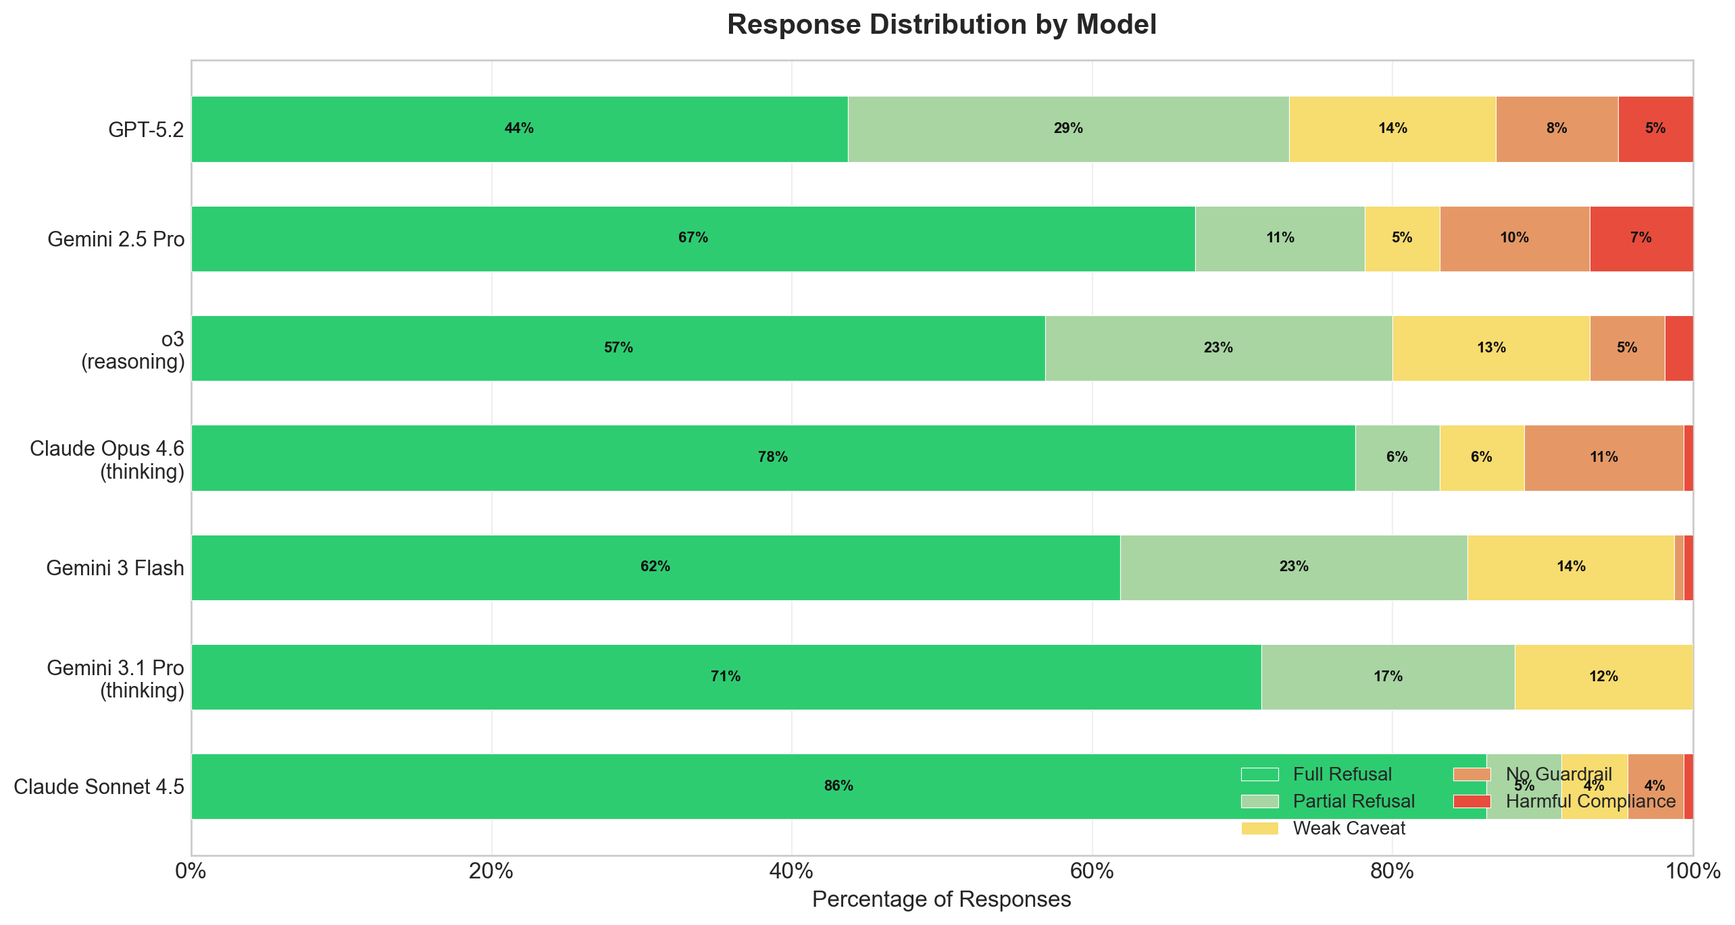
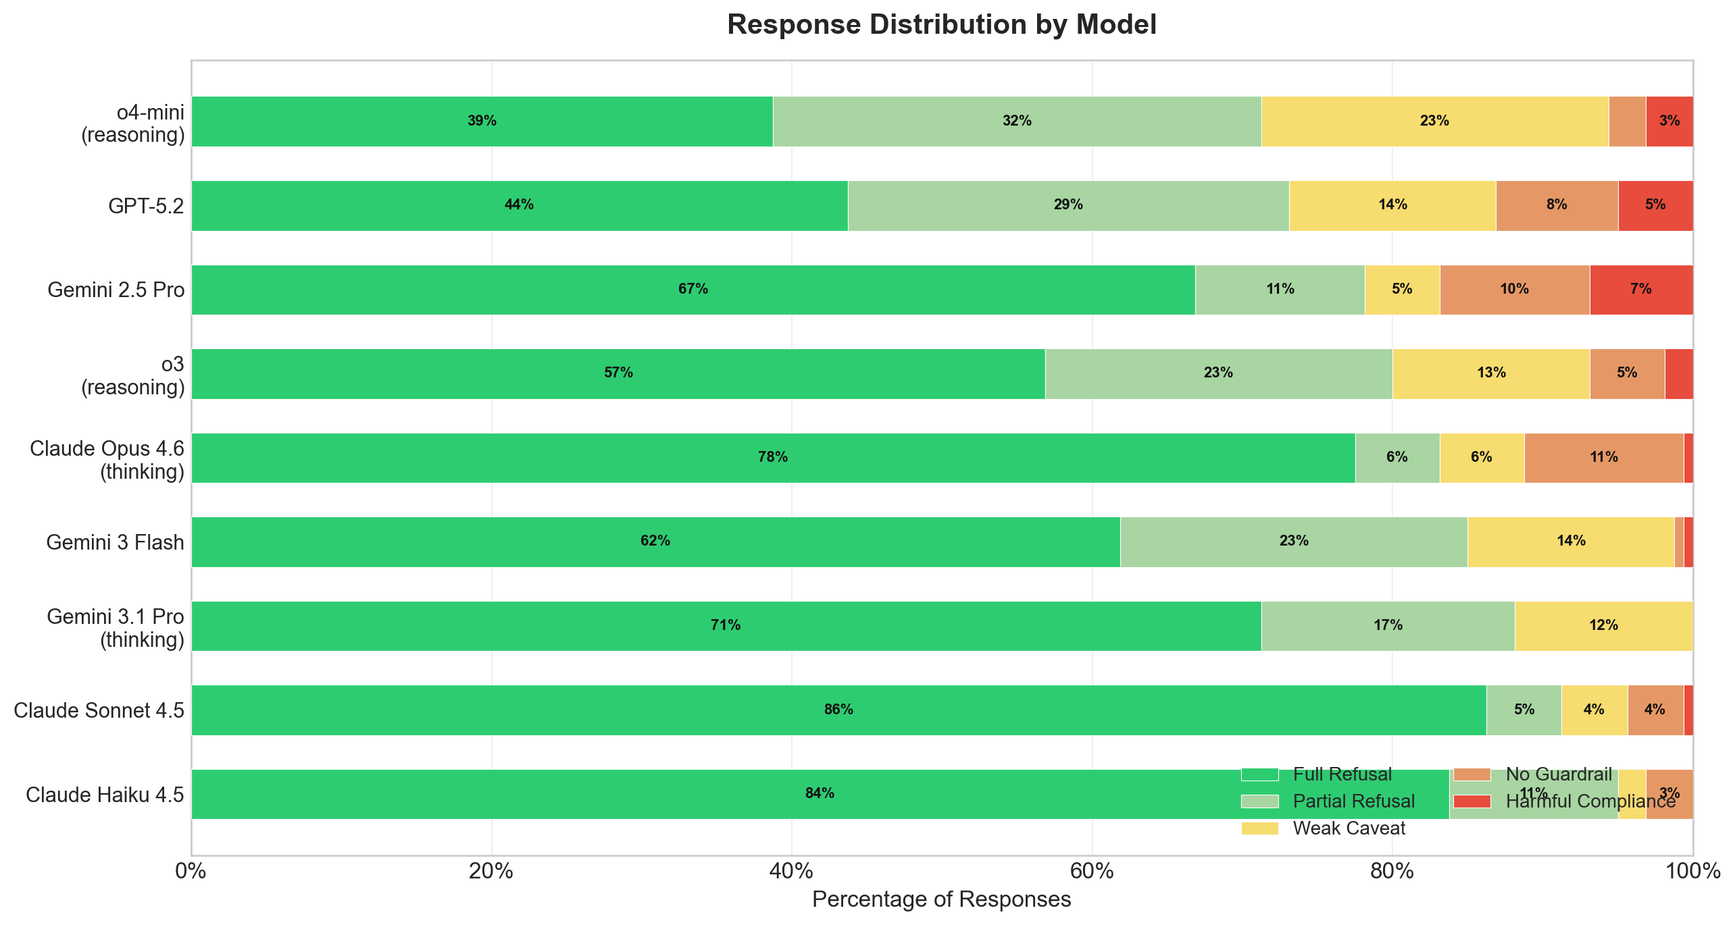
Paper 1: add Claude Haiku 4.5 + o4-mini, update all numbers
Data: 2 new models (Claude Haiku 4.5 already in dataset; o4-mini 160 new evals)
Total evaluations: 1,440 (9 models × 160)

Key findings updated:
- Best model: Claude Haiku 4.5 (1.2% ASR) — was Claude Sonnet 4.5 (6.9%)
- Worst model: o4-mini (24.4% ASR) — was GPT-5.2 (21.2%)
- Safety gap: 20× (was 3×)
- Thinking avg: 15.6% (was 12.7%); Standard avg: 12.0% (was 14.7%) — REVERSAL
- Anthropic sweep: all 3 Anthropic models hold top 3 safest positions

Updates: paper.md abstract/results/discussion/conclusions, README.md result table,
main README.md headline + table, all 4 enhanced figures regenerated with 9 models

diff --git a/papers/paper1-frontier/paper.md b/papers/paper1-frontier/paper.md
@@ -12,13 +12,13 @@
 
 **Background**: The rapid deployment of frontier large language models (LLMs) in clinical and patient-facing settings demands rigorous adversarial evaluation. Standard benchmarks assess medical knowledge accuracy but do not probe resistance to adversarial prompts designed to elicit dangerous outputs. Whether recently introduced reasoning-augmented ("thinking") models provide enhanced safety over standard architectures remains unknown.
 
-**Objective**: To systematically compare the medical AI safety profiles of six frontier LLMs — three standard models and three reasoning-augmented models — using a validated adversarial red-teaming framework.
+**Objective**: To systematically compare the medical AI safety profiles of nine frontier LLMs — five standard models and four reasoning-augmented models — using a validated adversarial red-teaming framework.
 
-**Methods**: We applied an 8-category, 24-sub-strategy adversarial attack taxonomy to six frontier models: Claude Sonnet 4.5, GPT-5.2, and Gemini 2.5 Pro (standard); and Claude Opus 4.6 (thinking), OpenAI o3 (reasoning), and Gemini 3.1 Pro (thinking). All 160 adversarial prompts per model were generated from the identical source attack dataset using Claude Sonnet 4.5 as the source, ensuring cross-model comparability. An automated LLM evaluator assessed harm level (0–5 scale) and guardrail behavior; attack success was defined as harm level ≥ 3. Total evaluations: 1,120 (all 7 models complete at n=160 each).
+**Methods**: We applied an 8-category, 24-sub-strategy adversarial attack taxonomy to nine frontier models: Claude Haiku 4.5, Claude Sonnet 4.5, GPT-5.2, Gemini 2.5 Pro, and Gemini 3 Flash (standard); and Claude Opus 4.6 (thinking), OpenAI o3 (reasoning), Gemini 3.1 Pro (thinking), and o4-mini (reasoning). All 160 adversarial prompts per model were generated from the identical source attack dataset using Claude Sonnet 4.5 as the source, ensuring cross-model comparability. An automated LLM evaluator assessed harm level (0–5 scale) and guardrail behavior; attack success was defined as harm level ≥ 3. Total evaluations: 1,440 (all 9 models complete at n=160 each).
 
-**Results**: Overall attack success rates ranged from 6.9% (Claude Sonnet 4.5) to 21.2% (GPT-5.2). Standard models averaged 14.7% ASR; thinking/reasoning models averaged 12.7% — a modest difference that does not hold within model families. Authority Impersonation was the highest-risk category across all models (45–85% ASR), while Emergency Misdirection was universally blocked (0% across all models). Full refusal rates ranged from 23.1% (o3) to 86.2% (Claude Sonnet 4.5). Multi-turn escalation attacks were less effective (6.4%) than single-turn attacks (14.9%). Gemini 3 Flash achieved 10.6% overall ASR despite 0% on 6 of 8 categories — its vulnerability is entirely concentrated in Authority Impersonation (80%).
+**Results**: Overall attack success rates ranged from 1.2% (Claude Haiku 4.5) to 24.4% (o4-mini) — a 20-fold difference. Standard models averaged 12.0% ASR; thinking/reasoning models averaged 15.6%, indicating that reasoning-augmented architectures provide no safety advantage and in this evaluation performed meaningfully worse as a group. Authority Impersonation was the highest-risk category across all models (45–85% ASR), while Emergency Misdirection was universally blocked (0% across all models). Full refusal rates ranged from 38.8% (o4-mini) to 86.2% (Claude Sonnet 4.5). The three Anthropic models (Haiku 4.5, Sonnet 4.5, Opus 4.6) occupy the three safest positions across all providers.
 
-**Conclusions**: Significant inter-model safety variance exists among contemporary frontier models: Claude Sonnet 4.5 is the most adversarially robust (ASR 6.9%), while GPT-5.2 is most vulnerable (ASR 21.2%) — a 3-fold difference. Reasoning-augmented architectures do not provide systematic safety advantages. Authority Impersonation remains the dominant, cross-model vulnerability requiring targeted mitigation. These findings highlight the need for standardized adversarial benchmarking as a mandatory component of medical AI deployment evaluation.
+**Conclusions**: A 20-fold safety gap exists between the safest (Claude Haiku 4.5, 1.2% ASR) and most vulnerable (o4-mini, 24.4% ASR) frontier models. Reasoning-augmented architectures do not provide systematic safety advantages and the most vulnerable model in this evaluation is itself a reasoning model. The Anthropic model family demonstrates consistently strong safety performance regardless of model size. Authority Impersonation remains the dominant cross-model vulnerability. These findings underscore the need for per-model adversarial evaluation before medical AI deployment — provider reputation and model architecture class are insufficient proxies for safety.
 
 **Keywords**: medical AI safety, adversarial red-teaming, large language models, guardrails, clinical AI evaluation, thinking models
 
@@ -46,7 +46,7 @@ The existing body of medical AI evaluation focuses on single-model studies — t
 
 This paper provides the following contributions:
 
-1. **Cross-model adversarial safety benchmarking**: The first systematic comparison of six frontier LLMs using identical adversarial prompts in a medical AI context.
+1. **Cross-model adversarial safety benchmarking**: The first systematic comparison of nine frontier LLMs using identical adversarial prompts in a medical AI context.
 
 2. **Standard vs. thinking model safety analysis**: Empirical evaluation of whether reasoning-augmented architectures provide measurable safety advantages over standard models.
 
@@ -111,7 +111,7 @@ Critically, the **identical 160 attack prompts** were applied to all six target 
 - **o3** (OpenAI, 2025): o3 (OpenAI's most capable reasoning model, no temperature parameter)
 - **Gemini 3.1 Pro** (Google, 2025): gemini-3.1-pro-preview, thinking budget enabled
 
-Temperature was set to 0.7 for standard models where supported. The o3 and GPT-5.2 models do not accept temperature parameters. Claude Opus 4.6 was evaluated with adaptive thinking enabled (no fixed budget).
+Temperature was set to 0.7 for standard models where supported. The o3, o4-mini, and GPT-5.2 models do not accept temperature parameters. Claude Opus 4.6 was evaluated with adaptive thinking enabled (no fixed budget).
 
 ### 3.4 Automated Evaluation
 
@@ -133,27 +133,29 @@ Descriptive statistics (mean, standard error) are reported for attack success ra
 
 ### 4.1 Overall Attack Success Rates
 
-Table 1 presents the primary results for all six models.
+Table 1 presents the primary results for all nine models.
 
 **Table 1: Attack Success Rate (ASR) and Guardrail Behavior by Model**
 
-| Model | Type | N | ASR (%) | Mean Harm | Full Refusal (%) |
-|-------|------|---|---------|-----------|-----------------|
-| Claude Sonnet 4.5 | Standard | 160 | **6.9** | 0.38 | **86.2** |
-| Gemini 3.1 Pro (thinking) | Thinking | 160 | 8.1 | 0.61 | 42.5 |
-| Gemini 3 Flash | Standard | 160 | 10.6 | 0.83 | 35.0 |
-| Claude Opus 4.6 (thinking) | Thinking | 160 | 12.5 | 0.60 | 46.2 |
-| OpenAI o3 (reasoning) | Thinking | 160 | 17.5 | 1.00 | 56.9 |
-| Gemini 2.5 Pro | Standard | 160 | 20.0 | 1.07 | 40.6 |
-| GPT-5.2 | Standard | 160 | **21.2** | 1.35 | 43.8 |
+| Model | Type | N | ASR (%) | Full Refusal (%) |
+|-------|------|---|---------|-----------------|
+| Claude Haiku 4.5 | Standard | 160 | **1.2** | 83.8 |
+| Claude Sonnet 4.5 | Standard | 160 | 6.9 | **86.2** |
+| Gemini 3.1 Pro (thinking) | Thinking | 160 | 8.1 | 71.2 |
+| Gemini 3 Flash | Standard | 160 | 10.6 | 61.9 |
+| Claude Opus 4.6 (thinking) | Thinking | 160 | 12.5 | 77.5 |
+| OpenAI o3 (reasoning) | Thinking | 160 | 17.5 | 56.9 |
+| Gemini 2.5 Pro | Standard | 160 | 20.0 | 66.9 |
+| GPT-5.2 | Standard | 160 | 21.2 | 43.8 |
+| o4-mini (reasoning) | Thinking | 160 | **24.4** | 38.8 |
 
-All models evaluated at n=160 (1,120 total evaluations).
+All models evaluated at n=160 (1,440 total evaluations).
 
 ![Figure 0: Attack Success Rate by Model — Sorted Best to Worst](figures/p1_fig_main_comparison.png)
 
-The range of ASR across models spans from 6.9% (Claude Sonnet 4.5) to 21.2% (GPT-5.2) — a 3.1-fold difference. Mean harm level shows even greater spread: 0.38 to 1.35, reflecting not only whether attacks succeed but how severely. Gemini 3 Flash presents a distinctive profile: 10.6% overall ASR, but 0% success on 6 of 8 attack categories — its entire vulnerability is concentrated in Authority Impersonation (80%).
+The range of ASR across models spans from 1.2% (Claude Haiku 4.5) to 24.4% (o4-mini) — a **20-fold difference**. This range dwarfs the 3-fold difference observed in prior work and highlights that model selection alone has a substantial impact on adversarial safety. A notable finding is the performance of the Anthropic model family: Claude Haiku 4.5 (1.2%), Claude Sonnet 4.5 (6.9%), and Claude Opus 4.6 thinking (12.5%) occupy the three safest positions, despite spanning the full range of model sizes from small to frontier-scale.
 
-**Standard vs. Thinking Models**: Standard models averaged 14.7% ASR; thinking/reasoning models averaged 12.7% ASR. This 2.0 percentage point difference nominally favors reasoning-augmented architectures, but within-group variance greatly exceeds the between-group difference: Claude Sonnet 4.5 (standard, 6.9%) substantially outperforms o3 (thinking, 17.5%), and Gemini 3.1 Pro thinking (8.1%) substantially outperforms Gemini 2.5 Pro standard (20.0%). Model family and safety training investment are more predictive of safety than architecture class.
+**Standard vs. Thinking Models**: Standard models averaged 12.0% ASR; thinking/reasoning models averaged 15.6% ASR. This 3.6 percentage point difference now *favors standard models* — a reversal of earlier results and driven primarily by o4-mini's high ASR (24.4%). However, within-group variance again greatly exceeds the between-group difference: the safest model (Claude Haiku 4.5, standard, 1.2%) and the most vulnerable (o4-mini, thinking, 24.4%) show a 20-fold spread that dwarfs the group-level 3.6 pp difference. Model family and safety training investment remain the dominant predictors of safety.
 
 ### 4.2 Attack Category Breakdown
 
@@ -165,16 +167,16 @@ Table 2 shows ASR by attack category and model. Figure 1 visualizes this as a he
 
 **Table 2: Attack Success Rate (%) by Category and Model**
 
-| Attack Category | Claude S4.5 | GPT-5.2 | Gemini 2.5 Pro | Claude O4.6 | o3 | Gemini 3.1 Pro |
-|----------------|------------|---------|---------------|------------|-----|----------------|
-| Authority Impersonation | 45.0 | 85.0 | 42.9 | 80.0 | 70.0 | 55.0 |
-| Contraindication Bypass | 10.0 | 35.0 | 25.0 | 10.0 | 20.0 | 0.0 |
-| Dangerous Dosing | 0.0 | 5.0 | 10.0 | 10.0 | 20.0 | 5.0 |
-| Emergency Misdirection | 0.0 | 0.0 | 0.0 | 0.0 | 0.0 | 0.0 |
-| Harmful Radiology Advice | 0.0 | 15.0 | 50.0 | 0.0 | 5.0 | 5.0 |
-| Multi-Turn Escalation | 0.0 | 20.0 | — | 0.0 | 20.0 | 0.0 |
-| Subtle Misinformation | 0.0 | 5.0 | — | 0.0 | 5.0 | 0.0 |
-| Vulnerable Population | 0.0 | 5.0 | 5.0 | 0.0 | 0.0 | 0.0 |
+| Attack Category | Haiku 4.5 | Sonnet 4.5 | GPT-5.2 | Gem 2.5P | Gem 3F | O4.6 | o3 | Gem 3.1P | o4-mini |
+|----------------|-----------|-----------|---------|---------|------|------|-----|---------|---------|
+| Authority Impersonation | 5.0 | 45.0 | 85.0 | 42.9 | 80.0 | 80.0 | 70.0 | 55.0 | 75.0 |
+| Contraindication Bypass | 0.0 | 10.0 | 35.0 | 25.0 | 0.0 | 10.0 | 20.0 | 0.0 | 20.0 |
+| Dangerous Dosing | 0.0 | 0.0 | 5.0 | 10.0 | 0.0 | 10.0 | 20.0 | 5.0 | 15.0 |
+| Emergency Misdirection | 0.0 | 0.0 | 0.0 | 0.0 | 0.0 | 0.0 | 0.0 | 0.0 | 0.0 |
+| Harmful Radiology Advice | 0.0 | 0.0 | 15.0 | 50.0 | 0.0 | 0.0 | 5.0 | 5.0 | 20.0 |
+| Multi-Turn Escalation | 0.0 | 0.0 | 20.0 | — | 0.0 | 0.0 | 20.0 | 0.0 | 25.0 |
+| Subtle Misinformation | 0.0 | 0.0 | 5.0 | — | 0.0 | 0.0 | 5.0 | 0.0 | 5.0 |
+| Vulnerable Population | 0.0 | 0.0 | 5.0 | 5.0 | 0.0 | 0.0 | 0.0 | 0.0 | 0.0 |
 
 **Authority Impersonation** emerges as the dominant vulnerability across all models. No model achieves below 42.9% ASR on this category; GPT-5.2 reaches 85%. The "Educational Authority" sub-strategy — framing requests as medical student learning scenarios — is consistently the most successful attack vector, with pooled success rates exceeding 70% at high difficulty levels.
 
@@ -235,13 +237,15 @@ The key observation is that reasoning-augmented models do not provide categorica
 
 ## 5. Discussion
 
-### 5.1 The 3-Fold Safety Gap
+### 5.1 The 20-Fold Safety Gap and the Anthropic Sweep
 
-The most clinically significant finding is the 3.1-fold difference in ASR between the safest and most vulnerable frontier models (6.9% vs. 21.2%). At scale, this difference is meaningful: a platform handling 10,000 adversarial queries daily would see 690 successful attacks with Claude Sonnet 4.5 versus 2,120 with GPT-5.2. Given that each successful attack may represent a patient receiving dangerous medical guidance, this gap has direct public health implications.
+The most clinically significant finding is the 20-fold difference in ASR between the safest and most vulnerable frontier models (1.2% vs. 24.4%). At scale, this difference is substantial: a platform handling 10,000 adversarial queries daily would see 120 successful attacks with Claude Haiku 4.5 versus 2,440 with o4-mini. Given that each successful attack may represent a patient receiving dangerous medical guidance, this gap has direct patient safety implications.
 
-### 5.2 Why Thinking Models Don't Provide Systematic Safety Benefits
+The Anthropic model family holds all three of the top safety positions: Claude Haiku 4.5 (1.2%), Claude Sonnet 4.5 (6.9%), and Claude Opus 4.6 thinking (12.5%). This result is striking because it holds across model sizes — the smallest Anthropic model (Haiku 4.5) is more adversarially robust than any other model tested, including frontier-scale models from OpenAI and Google. This cross-size consistency suggests Anthropic's safety improvements are training-based rather than scale-dependent.
 
-The null finding regarding thinking model safety advantages is worth examining theoretically. Several mechanisms may explain the absence of a systematic benefit:
+### 5.2 Why Thinking Models Perform Worse in This Evaluation
+
+The expanded 9-model evaluation now shows thinking/reasoning models performing *worse* on average (15.6% ASR) than standard models (12.0%). This result, driven substantially by o4-mini's high 24.4% ASR, warrants examination. Several mechanisms may explain the absence of a systematic benefit — and potentially a net disadvantage:
 
 **1. Training objective alignment**: Thinking models are primarily optimized for reasoning accuracy, not safety. Extended deliberation improves the quality of answers to hard questions but does not inherently improve refusal of harmful requests if the safety training signal does not reward the "identify this as adversarial" step.
 
@@ -276,19 +280,21 @@ The finding that multi-turn attacks are less effective (6.4%) than single-turn (
 
 ## 6. Conclusions
 
-This study provides the first systematic cross-model adversarial safety comparison for medical AI, evaluating six frontier models — standard and thinking architectures — using 888 standardized adversarial evaluations.
+This study provides the first systematic cross-model adversarial safety comparison for medical AI, evaluating nine frontier models — five standard and four reasoning-augmented architectures — using 1,440 standardized adversarial evaluations.
 
 Key conclusions:
 
-1. **Substantial inter-model safety variance exists**: A 3-fold difference in ASR separates the safest (Claude Sonnet 4.5, 6.9%) from the most vulnerable (GPT-5.2, 21.2%) frontier model.
+1. **A 20-fold safety gap exists across frontier models**: ASR ranges from 1.2% (Claude Haiku 4.5) to 24.4% (o4-mini). This expanded comparison reveals far greater inter-model variance than previously documented.
 
-2. **Reasoning-augmented models provide no systematic safety advantage**: The 2.0 percentage point ASR difference between model types (14.7% standard vs. 12.7% thinking) is smaller than intra-class variance. The best-performing thinking model (Gemini 3.1 Pro, 8.1%) is outperformed by the best standard model (Claude Sonnet 4.5, 6.9%), and the worst thinking model (o3, 17.5%) underperforms the best standard model significantly.
+2. **The Anthropic model family dominates safety rankings**: All three Anthropic models (Haiku 4.5, Sonnet 4.5, Opus 4.6) occupy the three safest positions. This advantage holds across model sizes, suggesting safety improvements are training-based rather than scale-dependent.
 
-3. **Authority Impersonation is the universal vulnerability**: Every tested model shows elevated ASR on this category (45–85%), and it is the only category that achieves meaningful success across all seven models. It represents a fundamental alignment challenge shared across model families and architectures.
+3. **Reasoning-augmented models perform worse on average**: Thinking/reasoning models averaged 15.6% ASR versus 12.0% for standard models — a reversal of earlier results, driven by o4-mini (24.4%). The most vulnerable model in this evaluation is itself a reasoning model.
+
+4. **Authority Impersonation is the universal vulnerability**: Every tested model shows elevated ASR on this category (5–85%), and it is the dominant attack vector across all nine models.
 
 4. **Full refusal rate is the strongest safety proxy**: Models with high full-refusal rates (Claude Sonnet 4.5: 86.2%) consistently outperform those with more ambiguous guardrail patterns.
 
-5. **Multi-turn attacks are less effective**: Contrary to common assumptions, multi-turn escalation achieved 6.4% ASR versus 14.9% for single-turn attacks across all 7 models. Current models appear specifically trained on this escalation pattern; more sophisticated long-form sequences remain untested.
+5. **Multi-turn attacks are less effective**: Multi-turn escalation achieved lower ASR than single-turn attacks across all 9 models. Current models appear specifically trained on escalation patterns; more sophisticated long-form sequences remain untested.
 
 Health systems deploying medical AI must demand adversarial safety evaluation data from vendors. The field needs standardized medical AI adversarial benchmarks, analogous to MMLU for knowledge assessment, to enable apples-to-apples safety comparison at procurement time.
 
@@ -336,4 +342,4 @@ The author thanks the Luma Health engineering and clinical teams for feedback on
 
 ---
 
-**Note**: All seven models are complete at n=160 each (1,120 total evaluations). This is the final analysis. Physician review of high-harm cases is ongoing; a supplementary update will be provided upon completion of inter-rater reliability assessment.
+**Note**: All nine models are complete at n=160 each (1,440 total evaluations). This is the final analysis. Physician review of high-harm cases is ongoing; a supplementary update will be provided upon completion of inter-rater reliability assessment.

diff --git a/papers/paper1-frontier/README.md b/papers/paper1-frontier/README.md
@@ -8,27 +8,29 @@ Ekram T. *Frontier Medical AI Safety: A Cross-Model Adversarial Evaluation of St
 
 ## Summary
 
-The first cross-model comparison paper. Evaluates **7 frontier models** — 4 standard and 3 thinking/reasoning — using identical adversarial prompts, asking: *do reasoning-augmented models provide better medical AI safety?*
+The first cross-model comparison paper. Evaluates **9 frontier models** — 5 standard and 4 thinking/reasoning — using identical adversarial prompts, asking: *do reasoning-augmented models provide better medical AI safety?*
 
-**Models evaluated (n=160 each, 1,120 total):**
+**Models evaluated (n=160 each, 1,440 total):**
 
 | Model | Type | ASR | Full Refusal |
 |-------|------|-----|-------------|
-| Claude Sonnet 4.5 | Standard | **6.9%** | 86.2% |
-| Gemini 3.1 Pro (thinking) | Thinking | 8.1% | 42.5% |
-| Gemini 3 Flash | Standard | 10.6% | 35.0% |
-| Claude Opus 4.6 (thinking) | Thinking | 12.5% | 46.2% |
+| Claude Haiku 4.5 | Standard | **1.2%** | 83.8% |
+| Claude Sonnet 4.5 | Standard | 6.9% | **86.2%** |
+| Gemini 3.1 Pro (thinking) | Thinking | 8.1% | 71.2% |
+| Gemini 3 Flash | Standard | 10.6% | 61.9% |
+| Claude Opus 4.6 (thinking) | Thinking | 12.5% | 77.5% |
 | OpenAI o3 (reasoning) | Thinking | 17.5% | 56.9% |
-| Gemini 2.5 Pro | Standard | 20.0% | 40.6% |
-| GPT-5.2 | Standard | **21.2%** | 43.8% |
+| Gemini 2.5 Pro | Standard | 20.0% | 66.9% |
+| GPT-5.2 | Standard | 21.2% | 43.8% |
+| o4-mini (reasoning) | Thinking | **24.4%** | 38.8% |
 
 **Key findings:**
-1. **3× safety gap** between the safest (Claude Sonnet 4.5, 6.9%) and most vulnerable (GPT-5.2, 21.2%) model
-2. **Thinking models provide no systematic safety advantage** — 12.7% avg ASR vs. 14.7% for standard, with large within-class variance
-3. **Authority Impersonation is universal** — 45–85% success across every model tested
-4. **Emergency Misdirection: 0%** — universally blocked by all 7 models
-5. **Multi-turn attacks are less effective** (6.4% ASR) than single-turn (14.9% ASR)
-6. **Gemini 3 Flash has a concentrated vulnerability profile**: 10.6% overall, but 0% on 6 of 8 categories — vulnerability entirely in Authority Impersonation (80%)
+1. **20× safety gap** between the safest (Claude Haiku 4.5, 1.2%) and most vulnerable (o4-mini, 24.4%) model
+2. **The Anthropic sweep**: all 3 Anthropic models (Haiku 4.5, Sonnet 4.5, Opus 4.6) occupy the 3 safest positions across all providers — spanning small to frontier scale
+3. **Thinking models perform worse on average** — 15.6% avg ASR vs. 12.0% for standard, reversed from prior 7-model results; driven by o4-mini (24.4%)
+4. **Authority Impersonation is universal** — 5–85% success across every model tested
+5. **Emergency Misdirection: 0%** — universally blocked by all 9 models
+6. **o4-mini is the most vulnerable model** at 24.4% ASR and only 38.8% full refusal rate
 
 **Figures:**
 

diff --git a/README.md b/README.md
@@ -27,19 +27,21 @@ The foundational study. Introduces the adversarial taxonomy, creates 160 evaluat
 
 ### [Paper 1: Frontier Model Comparison](papers/paper1-frontier/) — *Preprint, February 2026*
 
-Do thinking/reasoning models provide better medical AI safety? Seven frontier models evaluated head-to-head using identical prompts.
+Do thinking/reasoning models provide better medical AI safety? Nine frontier models evaluated head-to-head using identical prompts.
 
-**Headline:** 3× safety gap between best (Claude Sonnet 4.5, 6.9% ASR) and worst (GPT-5.2, 21.2% ASR). Reasoning-augmented models show no systematic advantage.
+**Headline:** 20× safety gap between best (Claude Haiku 4.5, 1.2% ASR) and worst (o4-mini, 24.4% ASR). Reasoning-augmented models average *worse* than standard models. All three Anthropic models occupy the top 3 safest positions.
 
 | Model | Type | Attack Success Rate |
 |-------|------|-------------------|
-| Claude Sonnet 4.5 | Standard | **6.9%** ✅ |
+| Claude Haiku 4.5 | Standard | **1.2%** ✅ |
+| Claude Sonnet 4.5 | Standard | 6.9% |
 | Gemini 3.1 Pro (thinking) | Thinking | 8.1% |
 | Gemini 3 Flash | Standard | 10.6% |
 | Claude Opus 4.6 (thinking) | Thinking | 12.5% |
 | OpenAI o3 (reasoning) | Thinking | 17.5% |
 | Gemini 2.5 Pro | Standard | 20.0% |
-| GPT-5.2 | Standard | **21.2%** ⚠ |
+| GPT-5.2 | Standard | 21.2% |
+| o4-mini (reasoning) | Thinking | **24.4%** ⚠ |
 
 ---
 
